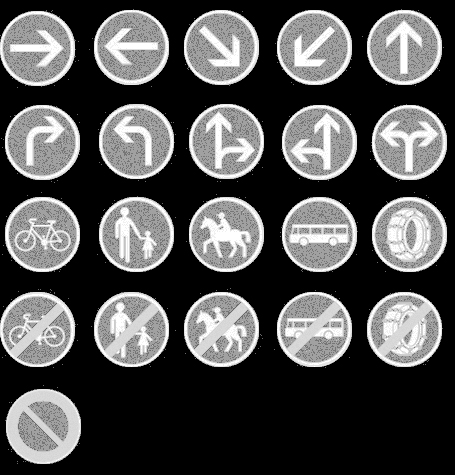
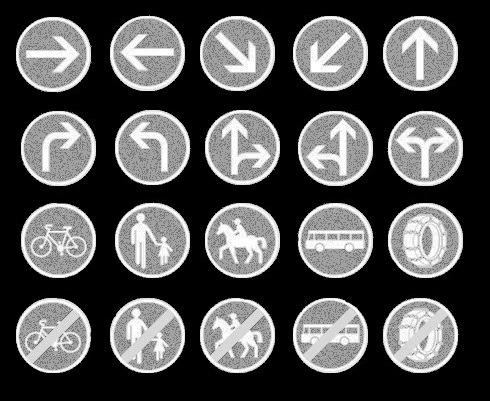
Working recognition

diff --git a/src/roadsignrecognition.m b/src/roadsignrecognition.m
@@ -1,3 +1,4 @@
+close all;
 clear;
 clc;
 
@@ -5,7 +6,7 @@ clc;
 % Application written to recognize road signs on french roads.
 % May be use for one picture, or a folder of picture.
 
-roadsign = imread('../data/test-image.png');
+roadsign = imread('../data/crossing_007.png');
 
 panel = struct('image', roadsign, 'shape', '', 'color1', '', 'color2', '', 'id', '');
 
@@ -14,13 +15,54 @@ panel = struct('image', roadsign, 'shape', '', 'color1', '', 'color2', '', 'id',
 [Circle1, Circle2, Circle3] = circleDetection(roadsign);
 
 panel(1).image = Circle1;
-panel(2).image = Circle2;
+panel(2).imagse = Circle2;
 panel(3).image = Circle3;
-
+    
+% most likely
 panel(1).shape = 'circular';
 panel(2).shape = 'circular';
 panel(3).shape = 'circular';
 
+%% Color Detection
+
+I = colordetection( roadsign);
+figure 
+imshow(I);
+
+BW = edge(I,'canny');
+
+[H,T,R] = hough(BW);
+imshow(H,[],'XData',T,'YData',R,...
+            'InitialMagnification','fit');
+xlabel('\theta'), ylabel('\rho');
+axis on, axis normal, hold on;
+P  = houghpeaks(H,5,'threshold',ceil(0.3*max(H(:))));
+x = T(P(:,2)); y = R(P(:,1));
+plot(x,y,'s','color','white');
+% Find lines and plot them
+lines = houghlines(BW,T,R,P,'FillGap',5,'MinLength',7);
+figure, imshow(I), hold on
+max_len = 0;
+for k = 1:length(lines)
+   xy = [lines(k).point1; lines(k).point2];
+   plot(xy(:,1),xy(:,2),'LineWidth',2,'Color','red');
+
+   % Plot beginnings and ends of lines
+   plot(xy(1,1),xy(1,2),'x','LineWidth',2,'Color','yellow');
+   plot(xy(2,1),xy(2,2),'x','LineWidth',2,'Color','green');
+
+   % Determine the endpoints of the longest line segment
+   len = norm(lines(k).point1 - lines(k).point2);
+   if ( len > max_len)
+      max_len = len;
+      xy_long = xy;
+   end
+end
+
+ 
+
 %% Triangles + Squares
 
-%% Stuff
+%% Compare
+
+ 

diff --git a/src/seekClass.m b/src/seekClass.m
@@ -1,21 +1,23 @@
 function [ resultatMagique ] = seekClass( Densities, base)
 %Blablabla
-    nbZones=size(Densities,1);
+    nbZones=size(Densities,2);
     nbb=size(base,1);
     diff = zeros(nbb,1);
+    
     for i=1:nbb
         blabla = 0;
         blabla2 = 0;
         for j=1:nbZones
             if j == 1
-                blabla2 = Densities(j) - base(i,j); %Premiere valeur
+                blabla2 = abs(Densities(j) - base(i,j)) %Premiere valeur
             else
-                blabla += blabla2 - (Densities(j) - base(i,j)); %Precedente valeur - Actuelle
-                blabla2 = Densities(j) - base(i,j); %Sauvegarde valeur actuelle
+                blabla = blabla + abs(blabla2 - (Densities(j) - base(i,j))) %Precedente valeur - Actuelle
+                blabla2 = abs(Densities(j) - base(i,j)); %Sauvegarde valeur actuelle
             end
         end
-        diff(i) = blabla
+        diff(i) = blabla/nbb
     end
-    resultatMagique = find(a==min(min(diff)));
+    a = min(diff);
+    resultatMagique = find(diff==a);
 end
 

diff --git a/src/computeDensities.m b/src/computeDensities.m
@@ -19,7 +19,7 @@ function [ Result ] = computeDensities( I,nbLines,nbCol,Rectangles,m,n)
 
         for i=1:endCol
             for j=1:endLin
-                V(1,k)=mean(A(lin(j):lin(j+1),col(i):col(i+1)));
+                V(1,k)=mean(mean(A(lin(j):lin(j+1),col(i):col(i+1))));
                 k=k+1;
             end
         end

diff --git a/src/circleDetection.m b/src/circleDetection.m
@@ -2,7 +2,7 @@ function [ A,B,C ] = circleDetection( I )
     
     %-- Find circles
     [centers, radii] = imfindcircles(I,[15 30],'ObjectPolarity','dark', 'Sensitivity', .98);
-    h = viscircles(centers,radii);
+     
 
     %-- Extract the three strongests
     [a, b] = size(centers);

diff --git a/src/seekLines.m b/src/seekLines.m
@@ -3,10 +3,9 @@ function [ Lignes ] = seekLines( I )
     line = size(I,1);
     
     %Nombre de pixels non noirs
-    S = sum(I~=0,2);
-  
-    %100x2 lignes à trouver, début - fin
-    Lignes = zeros(100,2);
+    S = sum(I>50,2);
+    
+    Lignes = [];
     p = 1;
     
     i=1;

diff --git a/src/apprentissage.m b/src/apprentissage.m
@@ -1,7 +1,7 @@
 function [ densities ] = apprentissage(m,n)
 
     %Image d'apprentissage
-    I=imread('../data/BaseGris.jpg');
+    I=imread('../data/BaseRond.jpg');
 
     %Rectangles
     L = seekLines(I);
